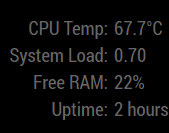
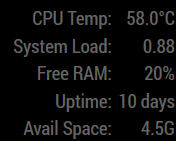
added available SD-card space info
added available SD-card space info

diff --git a/MMM-SystemStats.js b/MMM-SystemStats.js
@@ -44,6 +44,7 @@ Module.register('MMM-SystemStats', {
     this.stats.sysLoad = this.translate('LOADING').toLowerCase();
     this.stats.freeMem = this.translate('LOADING').toLowerCase();
     this.stats.upTime = this.translate('LOADING').toLowerCase();
+    this.stats.freeSpace = this.translate('LOADING').toLowerCase();
     this.sendSocketNotification('CONFIG', this.config);
   },
 
@@ -65,6 +66,7 @@ Module.register('MMM-SystemStats', {
       this.stats.freeMem = Number(payload.freeMem).toFixed() + '%';
       upTime = parseInt(payload.upTime[0]);
       this.stats.upTime = moment.duration(upTime, "seconds").humanize();
+      this.stats.freeSpace = payload.freeSpace;
       this.updateDom(this.config.animationSpeed);
     }
   },
@@ -88,6 +90,10 @@ Module.register('MMM-SystemStats', {
                         '</tr>' +
                         '<tr>' +
                         '<td class="title" style="text-align:' + self.config.align + ';">' + this.translate("UPTIME") + ':&nbsp;</td>' +
+                        '<td class="value" style="text-align:left;">' + this.stats.upTime + '</td>' +
+                        '</tr>' +
+                        '<tr>' +
+                        '<td class="title" style="text-align:' + self.config.align + ';">' + this.translate("DISK_FREE") + ':&nbsp;</td>' +
                         '<td class="value" style="text-align:left;">' + this.stats.upTime + '</td>' +
                         '</tr>';
 

diff --git a/node_helper.js b/node_helper.js
@@ -52,6 +52,8 @@ module.exports = NodeHelper.create({
       async.apply(exec, "free | awk '/^Mem:/ {print $4*100/$2}'"),
       // get uptime
       async.apply(exec, 'cat /proc/uptime'),
+      // get root free-space
+      async.apply(exec, "df -h|grep /dev/root|awk '{print $4}'"),
 
     ],
     function (err, res) {
@@ -60,7 +62,8 @@ module.exports = NodeHelper.create({
       stats.sysLoad = res[1][0].split(' ');
       stats.freeMem = res[2][0];
       stats.upTime = res[3][0].split(' ');
-      // console.log(stats);
+      stats.freeSpace = res[4][0];
+      console.log(stats);
       self.sendSocketNotification('STATS', stats);
     });
   },

diff --git a/README.md b/README.md
@@ -1,5 +1,5 @@
 # Module: MMM-SystemStats
-This [MagicMirror](https://github.com/MichMich/MagicMirror) modules, shows the processor temperature, system load and available RAM.
+This [MagicMirror](https://github.com/MichMich/MagicMirror) modules, shows the processor temperature, system load, available RAM, uptime, and available space.
 
 ![Magic-Mirror Module MMM-SystemStats screenshot](https://raw.githubusercontent.com/BenRoe/MMM-SystemStats/master/screenshot.png)
 
@@ -108,7 +108,7 @@ The following properties can be configured:
 		</tr>
 		<tr>
 			<td><code>baseURLSyslog</code></td>
-			<td>URL base of MMM-syslog module
+			<td>URL base of <a href="https://github.com/paviro/MMM-syslog">MMM-syslog module</a>
 				<br><b>Default value:</b> <code>http://127.0.0.1:8080/syslog</code>
 			</td>
 		</tr>
@@ -117,5 +117,4 @@ The following properties can be configured:
 
 ## ToDo
 - icons
-- sd-card available space
 - better indication for the system load
